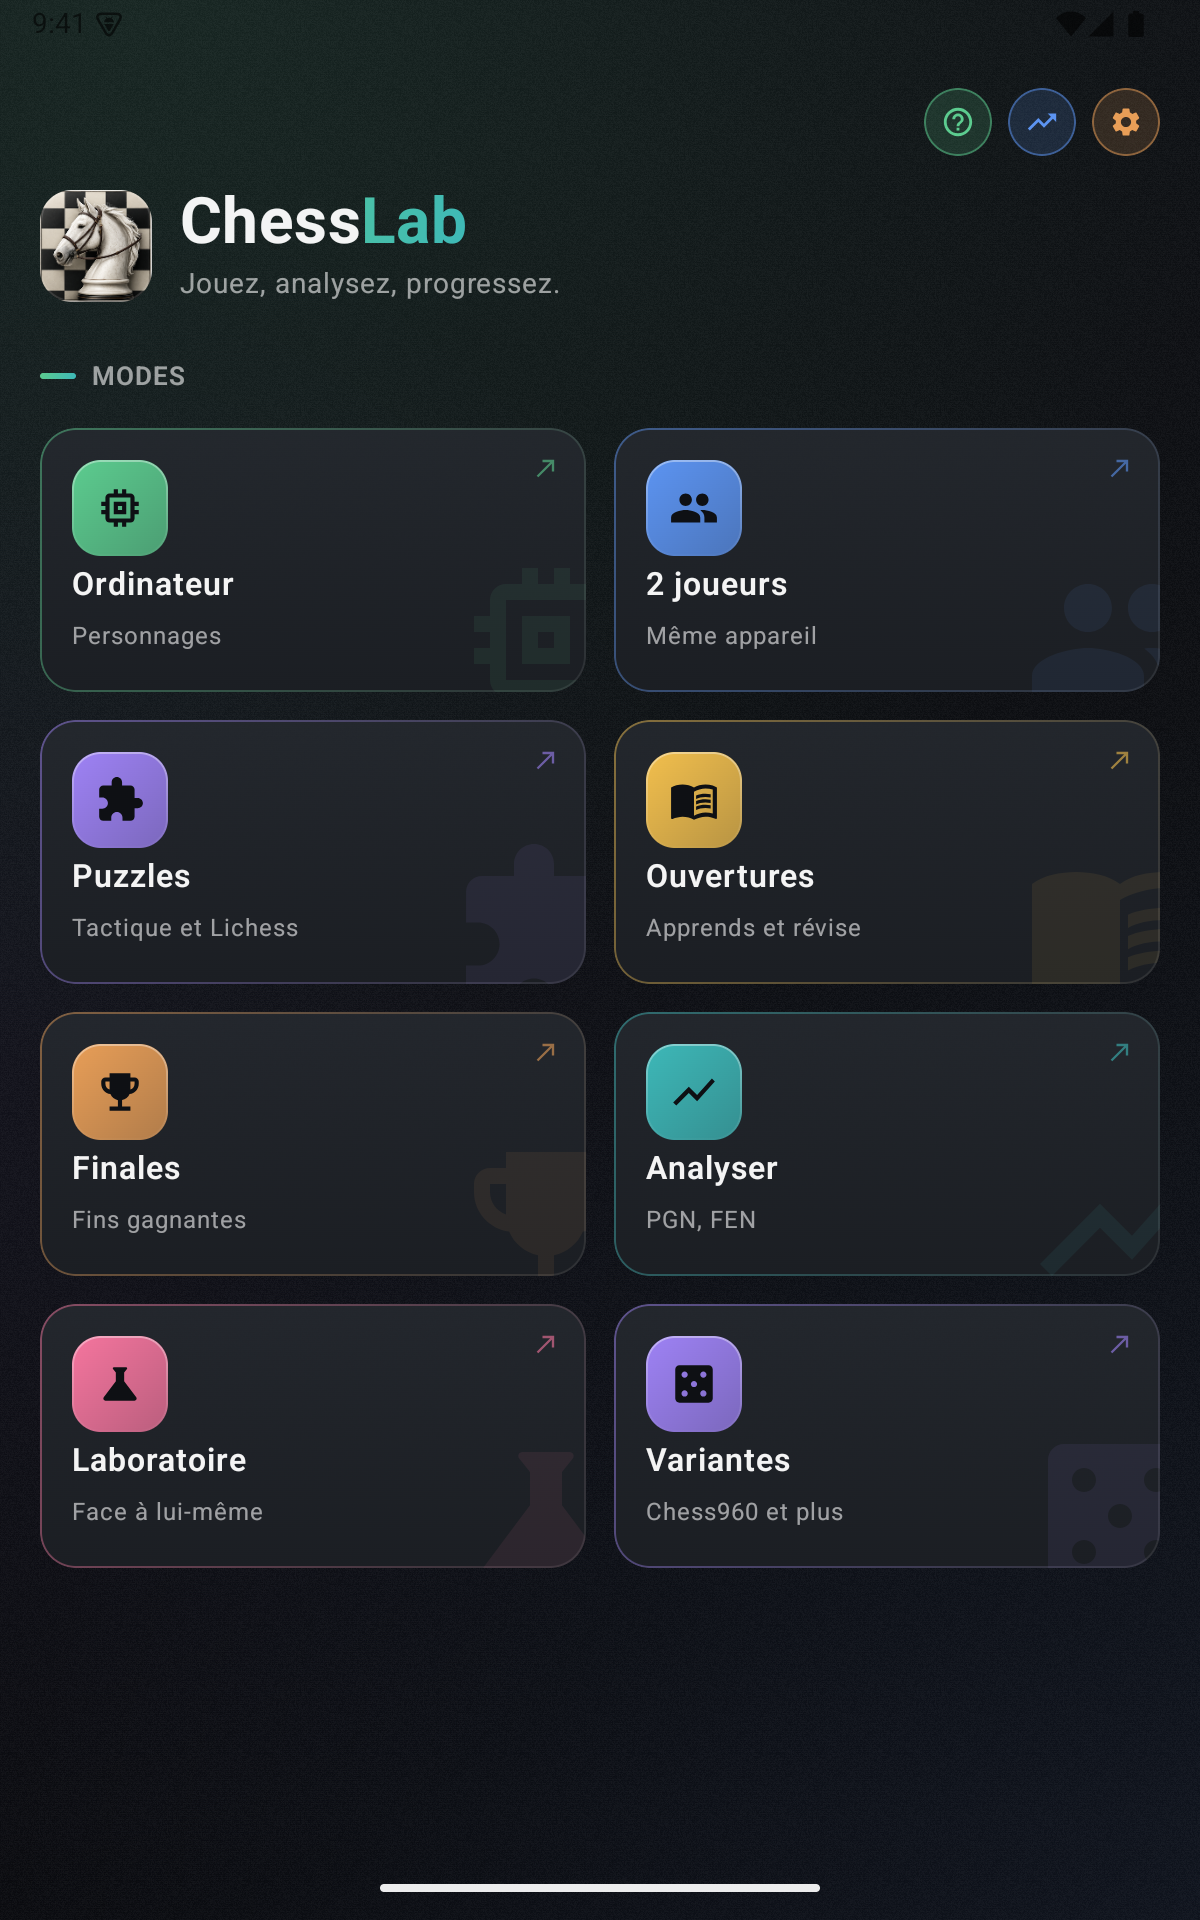
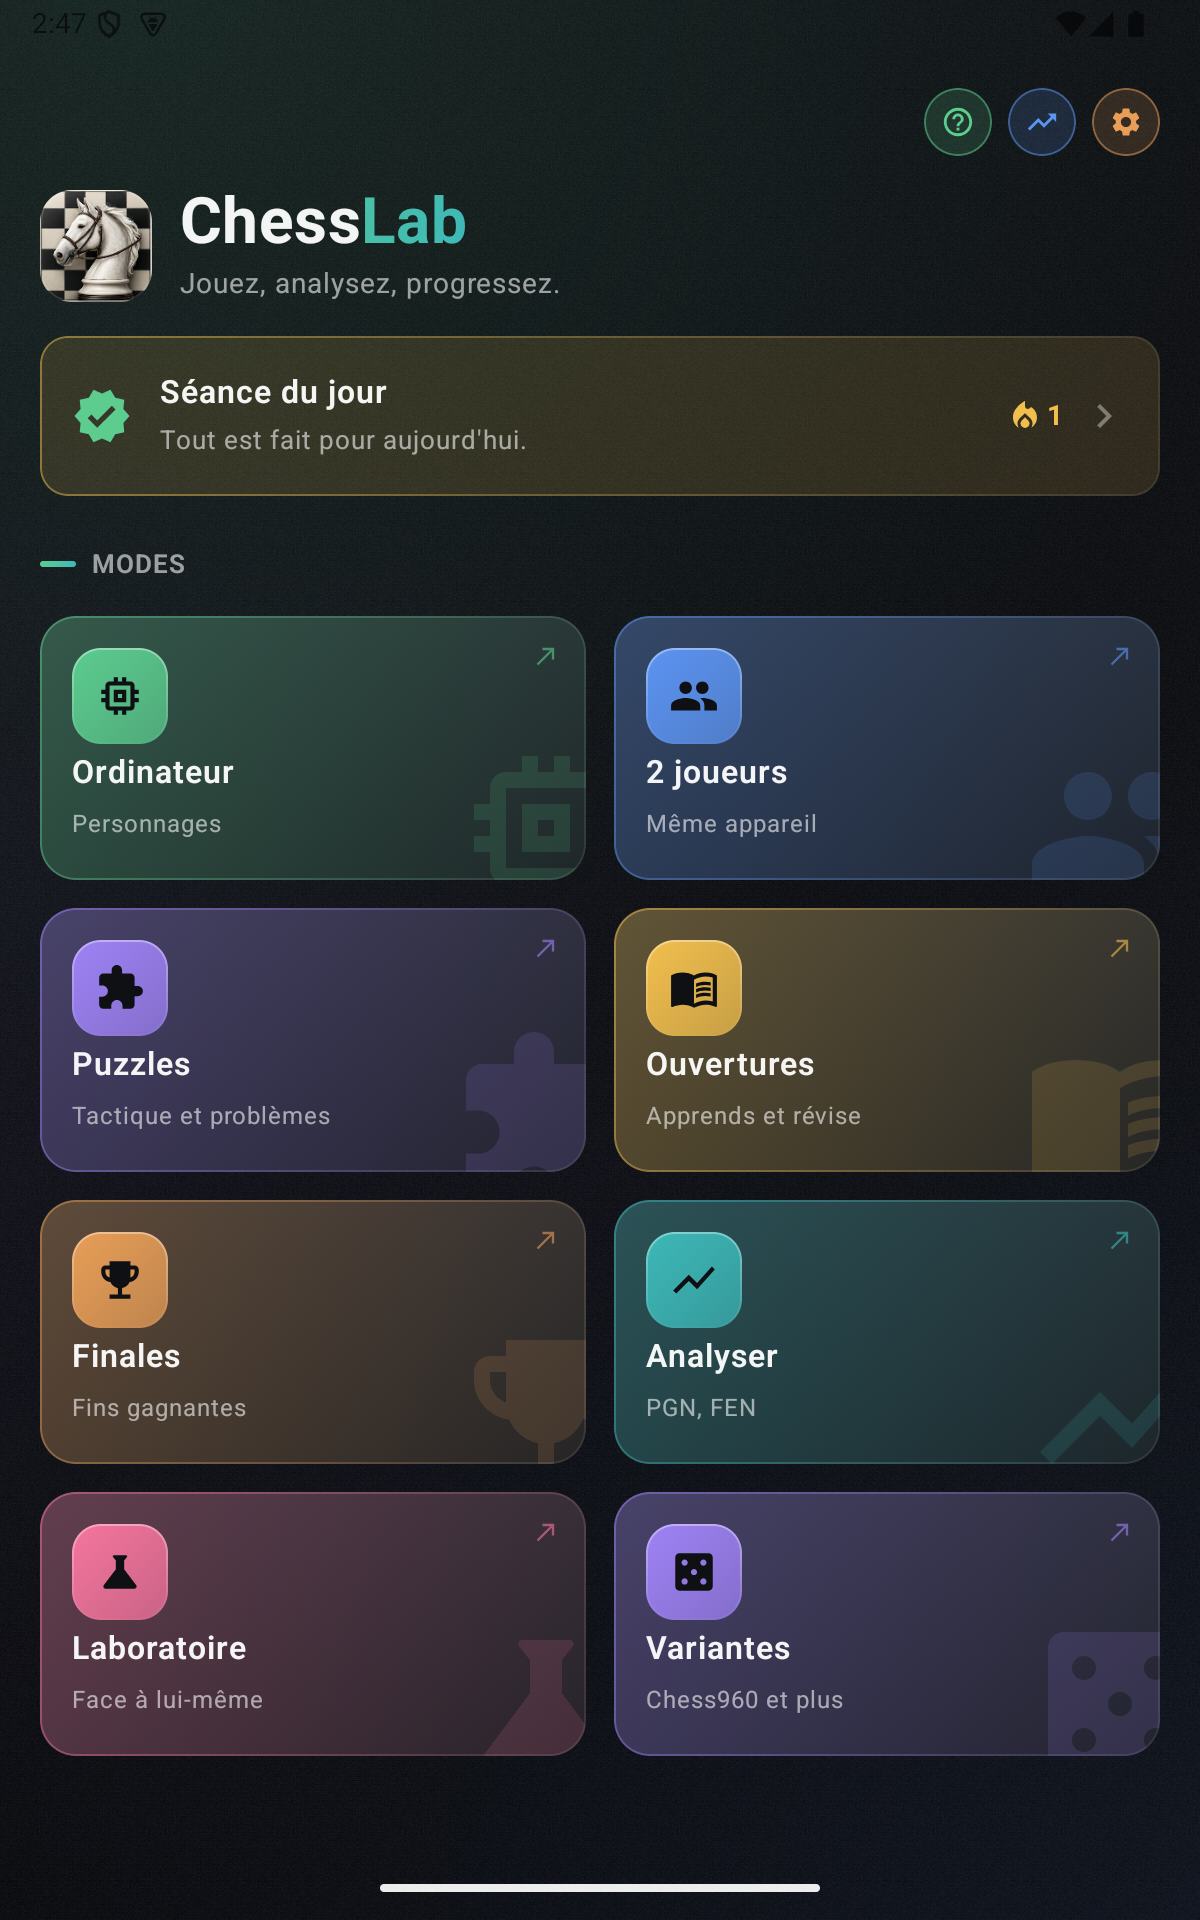
Play 2.0 : captures de tablette 7 et 10 pouces refaites (sept par langue), script d'émulateur

diff --git a/tools/captures-tablette-2.0.py b/tools/captures-tablette-2.0.py
@@ -1,0 +1,126 @@
+#!/usr/bin/env python3
+"""Les captures de TABLETTE de la fiche Play 2.0, prises sur émulateur avec l'APK de DEBUG
+(com.maeder.chesslab.debug) : un build de release consommerait un versionCode.
+
+    tools/captures-tablette-2.0.py chesslab-tab10 fr-FR large-tablet-screenshots
+    tools/captures-tablette-2.0.py chesslab-tab7  en-US tablet-screenshots
+
+Sept captures, comme sur téléphone : accueil, séance du jour, nouvelle partie, analyse (une partie
+collée, avec le Coach), ouvertures (filtre Classiques), puzzle, finales.
+"""
+import re, subprocess, sys, time, os, xml.etree.ElementTree as ET
+
+AVD, LANGUE, DOSSIER = sys.argv[1:4]
+RACINE = os.path.abspath(os.path.join(os.path.dirname(__file__), ".."))
+SDK = "/opt/homebrew/share/android-commandlinetools"
+ADB = f"{SDK}/platform-tools/adb"
+PORT = 5560
+SERIE = f"emulator-{PORT}"
+PAQUET = "com.maeder.chesslab.debug"
+APK = f"{RACINE}/android/app/build/outputs/apk/debug/app-debug.apk"
+SORTIE = f"{RACINE}/android/app/src/main/play/listings/{LANGUE}/graphics/{DOSSIER}"
+FR = LANGUE.startswith("fr")
+os.makedirs(SORTIE, exist_ok=True)
+
+def adb(*a, **k): return subprocess.run([ADB, "-s", SERIE, *a], capture_output=True, text=True, **k)
+def sh(*a): return adb("shell", *a).stdout
+def dump():
+    sh("uiautomator", "dump", "/sdcard/e.xml")
+    x = adb("exec-out", "cat", "/sdcard/e.xml").stdout
+    return ET.fromstring(x[x.index("<"):])
+def nodes():
+    for n in dump().iter("node"):
+        b = list(map(int, re.findall(r"\d+", n.get("bounds"))))
+        yield (n.get("text") or n.get("content-desc") or ""), b
+def tap(text, wait=2.0, last=False):
+    hits = [(t, b) for t, b in nodes() if text.lower() in t.lower()]
+    if not hits: print("  ✗ introuvable :", text); return False
+    t, b = hits[-1] if last else hits[0]
+    sh("input", "tap", str((b[0] + b[2]) // 2), str((b[1] + b[3]) // 2)); time.sleep(wait); return True
+def back(w=1.5): sh("input", "keyevent", "KEYCODE_BACK"); time.sleep(w)
+def shot(nom):
+    p = f"{SORTIE}/{nom}.png"
+    open(p, "wb").write(subprocess.run([ADB, "-s", SERIE, "exec-out", "screencap", "-p"], capture_output=True).stdout)
+    print("  ✓", nom)
+def notation_anglaise():
+    """Réglages → notation « English » : sans cela, une fiche anglaise montrerait « Cxc2 » (lettres françaises)."""
+    top = [(b, t) for t, b in ((t, b) for t, b in nodes()) if b[1] < 400 and b[3] - b[1] > 40]
+    n = dump()
+    cand = []
+    for e in n.iter("node"):
+        if e.get("clickable") == "true":
+            b = list(map(int, re.findall(r"\d+", e.get("bounds"))))
+            if b[1] < 400: cand.append(b)
+    if not cand: print("  ✗ engrenage introuvable"); return
+    b = max(cand, key=lambda b: b[2])
+    sh("input", "tap", str((b[0] + b[2]) // 2), str((b[1] + b[3]) // 2)); time.sleep(2.5)
+    # Défile jusqu'à la rangée « French / English » de la notation (« French » n'existe que là).
+    w, h = map(int, sh("wm", "size").split()[-1].split("x"))
+    for _ in range(8):
+        fr = [b for t, b in nodes() if t.strip().startswith("French")]
+        if fr:
+            fb = fr[0]
+            row = [b for t, b in nodes() if t.strip().startswith("English") and abs(b[1] - fb[1]) < 80 and b[0] > fb[0]]
+            if row:
+                b = row[0]
+                sh("input", "tap", str((b[0] + b[2]) // 2), str((b[1] + b[3]) // 2)); time.sleep(1.5)
+                print("  ✓ notation anglaise"); break
+        sh("input", "swipe", str(w // 2), str(int(h * 0.75)), str(w // 2), str(int(h * 0.3)), "400"); time.sleep(0.8)
+    else:
+        print("  ✗ rangée de notation introuvable")
+    back()
+
+def relancer():
+    sh("am", "force-stop", PAQUET)
+    sh("am", "start", "-n", f"{PAQUET}/com.chesslab.MainActivity"); time.sleep(6)
+
+print("▸ démarrage de", AVD)
+emu = subprocess.Popen([f"{SDK}/emulator/emulator", "-avd", AVD, "-port", str(PORT), "-no-boot-anim", "-no-snapshot",
+                        "-gpu", "host", "-netdelay", "none", "-netspeed", "full"],
+                       stdout=subprocess.DEVNULL, stderr=subprocess.DEVNULL)
+try:
+    subprocess.run([ADB, "-s", SERIE, "wait-for-device"])
+    for _ in range(120):
+        if adb("shell", "getprop", "sys.boot_completed").stdout.strip() == "1": break
+        time.sleep(2)
+    time.sleep(6)
+    print("▸ installation")
+    if adb("install", "-r", APK).returncode != 0: sys.exit("installation refusée")
+    sh("settings", "put", "secure", "show_ime_with_hard_keyboard", "0")
+    sh("cmd", "locale", "set-app-locales", PAQUET, "--locales", LANGUE.split("-")[0] if not FR else "fr-FR")
+    relancer(); time.sleep(8)
+    # La visite guidée couvre l'écran d'une installation neuve : « Passer ».
+    for _ in range(3):
+        if not tap("Passer" if FR else "Skip", 1.5): break
+    if not FR: notation_anglaise()
+    # Un jour d'entraînement : la finale du jour, pour que la séance affiche sa série.
+    tap("Séance du jour" if FR else "Daily session", 2.5)
+    tap("Une finale" if FR else "An endgame", 3.5)
+    back(); back()
+    print("▸ captures")
+    relancer(); shot("1-accueil" if FR else "1-home")
+    tap("Séance du jour" if FR else "Daily session", 2.5); shot("2-seance" if FR else "2-daily-session"); back()
+    tap("Ordinateur" if FR else "Computer", 3); shot("3-jouer" if FR else "3-play"); back()
+    # Analyse : une partie collée, qui montre le Coach.
+    if not FR:
+        pass
+    tap("Analyser" if FR else "Analyse", 2.5)
+    tap("Coller, ouvrir" if FR else "Paste, open", 2.5)
+    tap("Analyser PGN / FEN" if FR else "Analyse PGN / FEN", 2.5)
+    tap("PGN ou FEN" if FR else "PGN or FEN", 1.5)
+    sh("input", "text", "1.e4%se5%s2.Nf3%sNc6%s3.Bc4%sNf6%s4.Ng5%sd5%s5.exd5%sNxd5%s6.Nxf7%sKxf7%s7.Qf3+%sKe6%s8.Nc3%sNcb4%s9.O-O%sc6%s10.d4%sNxc2")
+    time.sleep(1)
+    tap("Charger" if FR else "Load", 40)
+    shot("4-analyse" if FR else "4-analysis")
+    relancer()
+    tap("Ouvertures" if FR else "Openings", 3)
+    tap("Tous niveaux" if FR else "All levels", 1.5)
+    tap("Classiques" if FR else "Classics", 2.5)
+    shot("5-ouvertures" if FR else "5-openings"); back()
+    tap("Puzzles", 2.5)
+    tap("Commencer la séance" if FR else "Start the session", 4)
+    shot("6-puzzles"); back(); back()
+    tap("Finales" if FR else "Endgames", 3.5); shot("7-finales" if FR else "7-endgames")
+    print("▸ terminé —", SORTIE)
+finally:
+    adb("emu", "kill"); emu.terminate()

diff --git a/android/PLAY-2.0.md b/android/PLAY-2.0.md
@@ -16,6 +16,7 @@ console, ou automatiquement une fois la clé posée.
 | Textes de la fiche | `app/src/main/play/listings/{fr-FR,en-US}/` | titre, description courte (76 / 70 car.), description complète (3989 / 3692 car., limite 4000) |
 | Notes de version | `app/src/main/play/release-notes/{fr-FR,en-US}/default.txt` | 471 / 427 car. (limite 500) |
 | Captures téléphone | `listings/*/graphics/phone-screenshots/` | **sept** par langue, 1080 × 2340, prises sur le Galaxy A16 : accueil, séance du jour, nouvelle partie, analyse + Coach, ouvertures (filtre Classiques), puzzle, finales |
+| Captures tablette 7" et 10" | `listings/*/graphics/tablet-screenshots` (1200 × 1920) et `large-tablet-screenshots` (2560 × 1600) | **sept** par langue et par taille, prises sur émulateur avec l'APK de debug (`tools/captures-tablette-2.0.py`), notation anglaise réglée pour la fiche anglaise |
 | Icône, image de présentation | `listings/*/graphics/icon`, `feature-graphic` | inchangées |
 
 ## À faire, dans l'ordre
